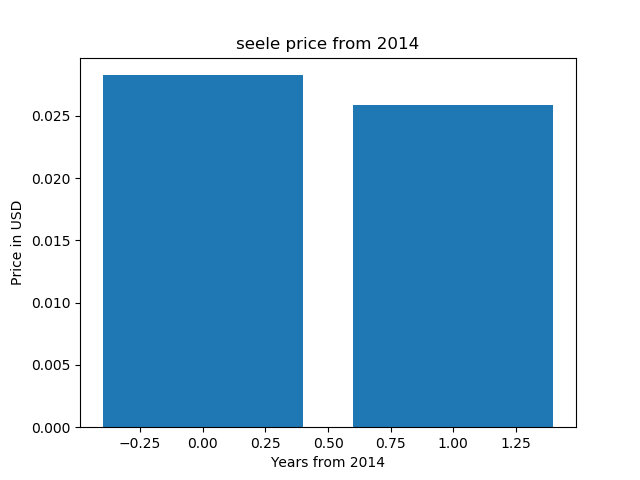
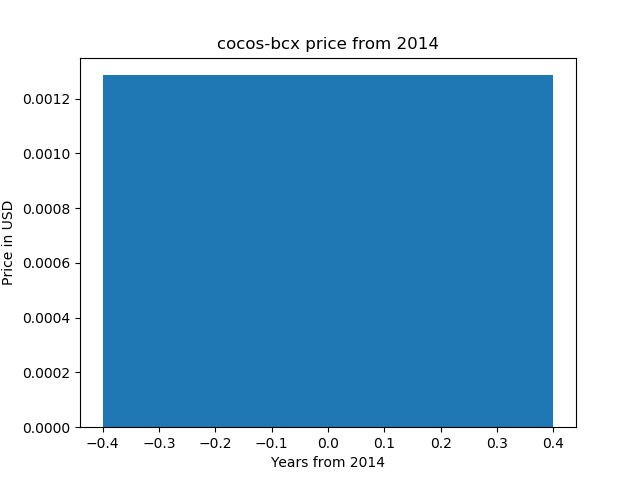
first commit

diff --git a/example.py b/example.py
@@ -10,7 +10,7 @@ from time import gmtime, strftime
 import matplotlib.pyplot as plt
 
 enddate = strftime("%Y%m%d", gmtime())
-r  = requests.get("https://coinmarketcap.com/currencies/seele/historical-data/?start=20140101&end={0}".format(enddate))
+r  = requests.get("https://coinmarketcap.com/currencies/cocos-bcx/historical-data/?start=20140101&end={0}".format(enddate))
 data = r.text
 
 soup = BeautifulSoup(data, "html.parser")
@@ -44,7 +44,7 @@ print(x)
 
 x = list(range(0, len(prices)))
 
-plt.title('seele price from 2014')
+plt.title('cocos-bcx price from 2014')
 plt.ylabel('Price in USD')
 plt.xlabel('Years from 2014')
 plt.bar(x, prices)

diff --git a/README.md b/README.md
@@ -1,6 +1,6 @@
-# seele price chart 
+# cocos-bcx price chart 
 
-seele price chart (matplotlib, python)
+cocos-bcx price chart (matplotlib, python)
 
 https://pythonprogramminglanguage.com
 
